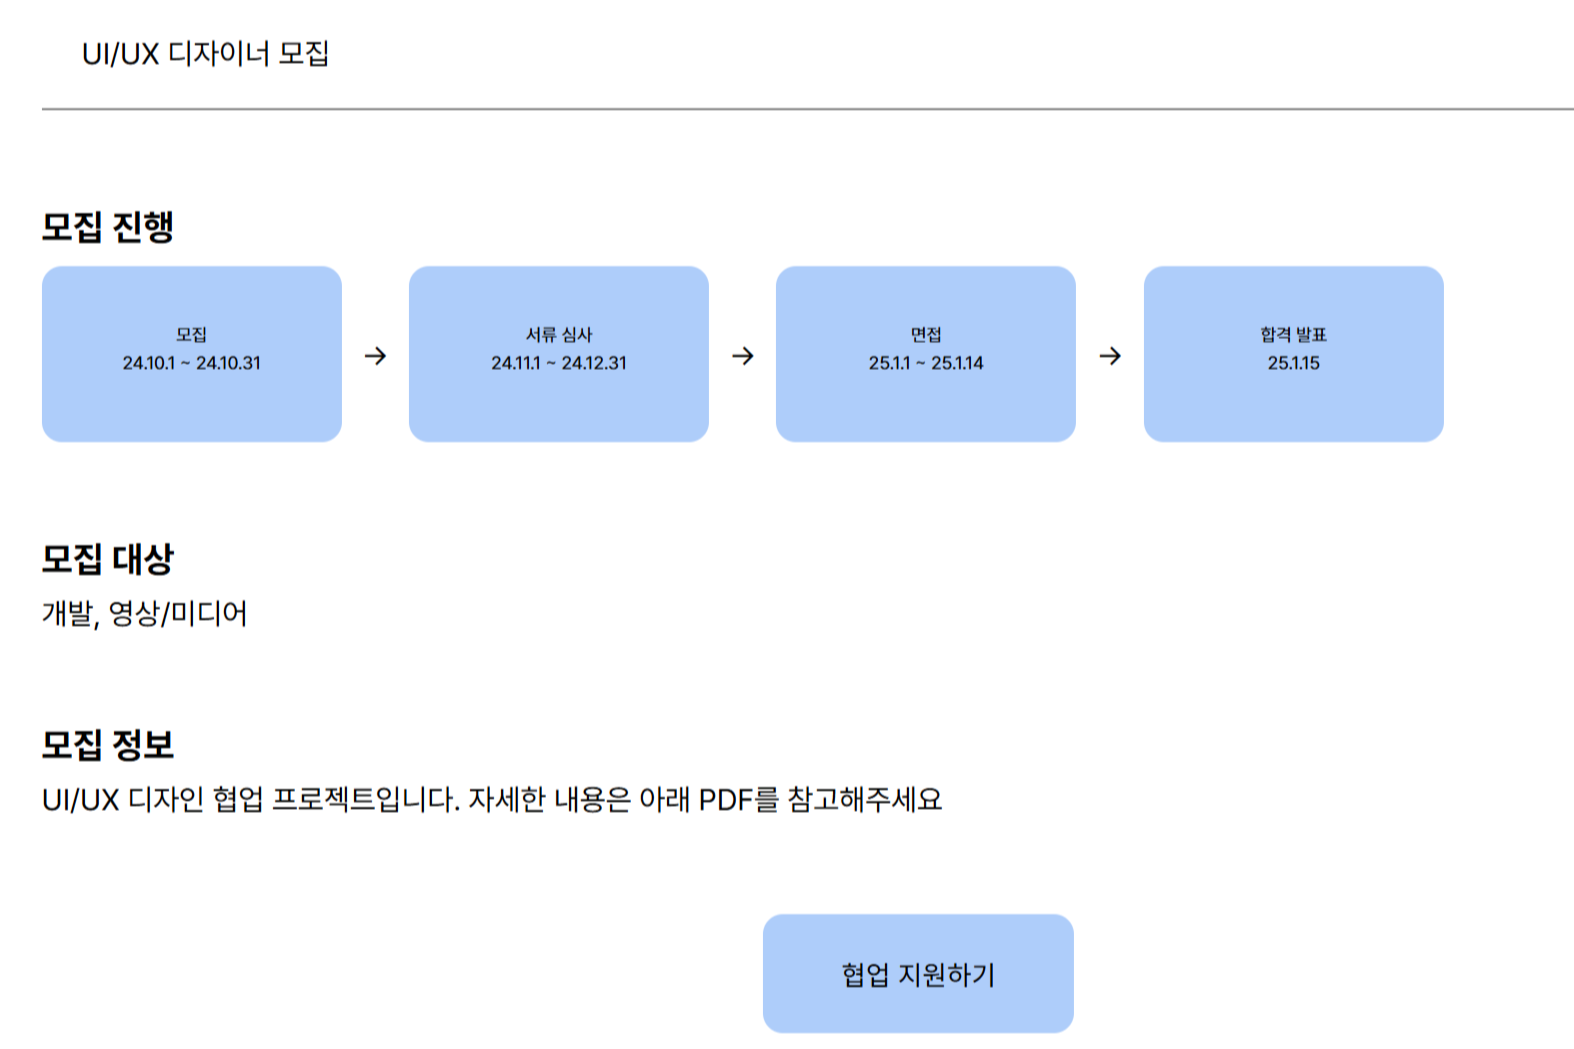
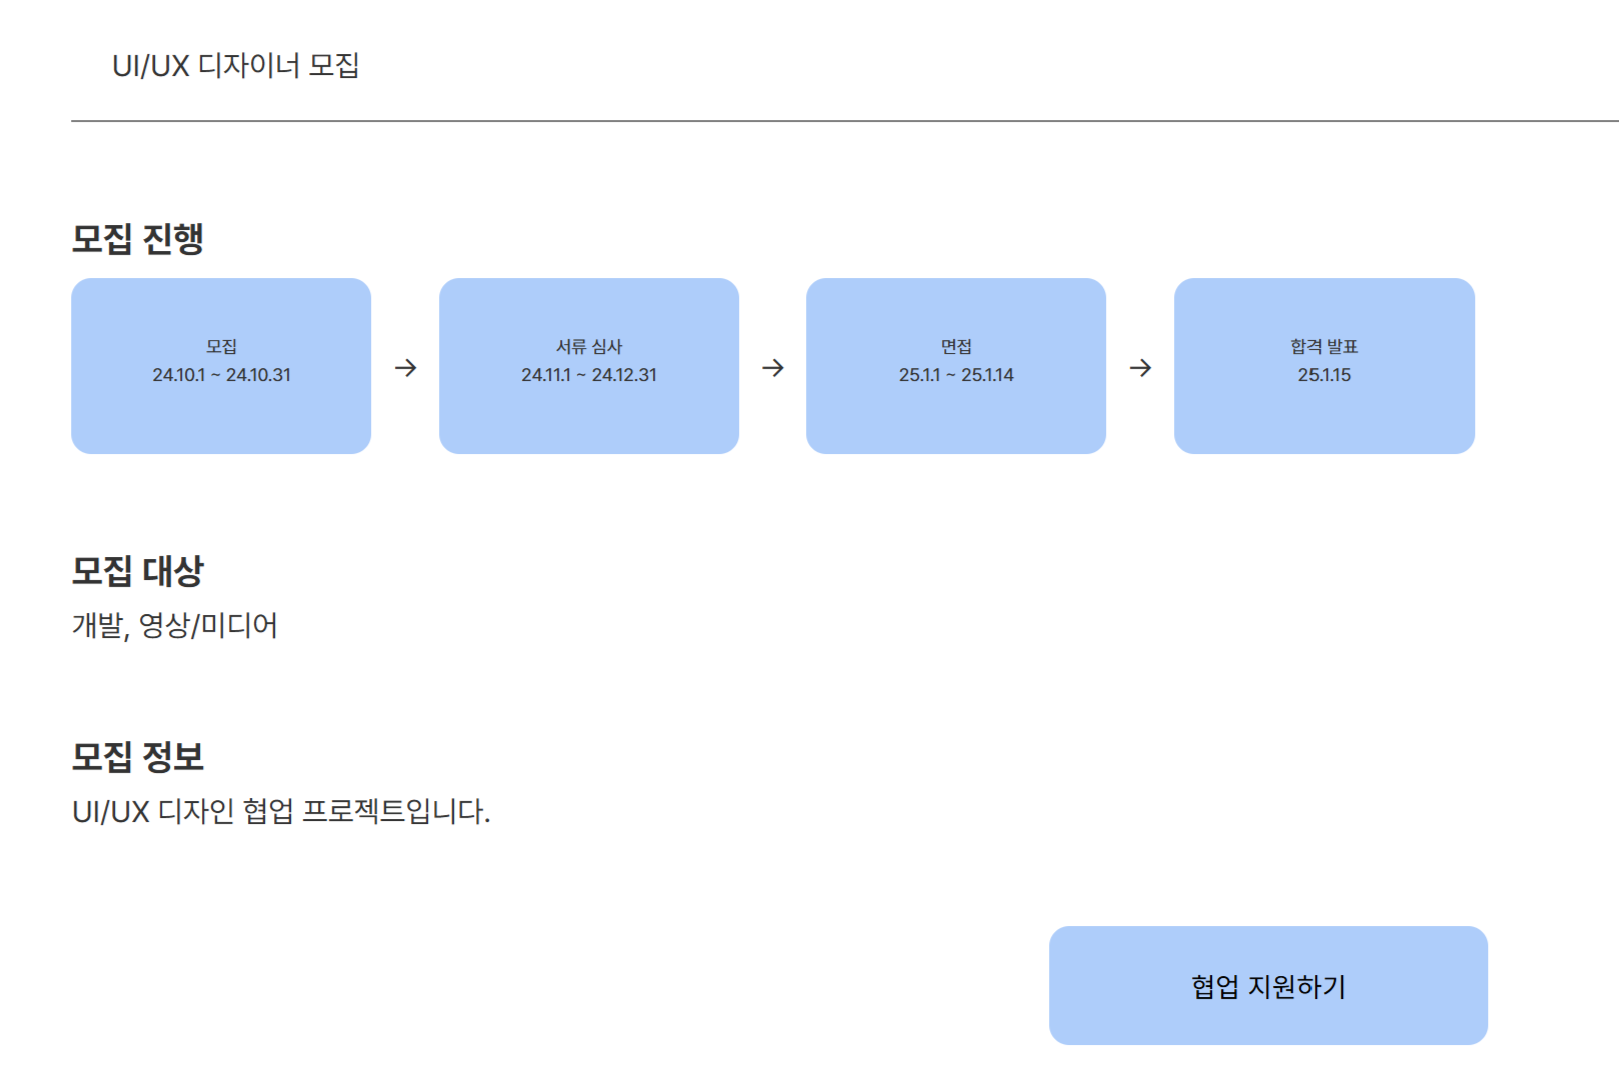
Feat: main 이미지 변경

diff --git a/src/pages/portfolio/Port/Port.jsx b/src/pages/portfolio/Port/Port.jsx
@@ -28,7 +28,43 @@ const data = [
     selecttype: 'Port',
     type: '팀 프로젝트',
     time: '2025.01.01 ~ 2025.03.01',
-    content: '자기소개서',
+    content: `
+  안녕하세요, 저는 현재 웹 개발 및 프로젝트 매니지먼트에 관심을 가지고 다양한 프로젝트를 진행 중인 개발자입니다. 이번에 풀스택 개발자와 협업하여 창의적이고 도전적인 프로젝트를 진행하고자 이렇게 글을 작성하게 되었습니다.<br/><br/>
+  
+  <strong>프로젝트 주제</strong><br/>
+  - <strong>목표:</strong> 사용자 친화적이고 실질적인 문제를 해결할 수 있는 웹 애플리케이션 개발<br/>
+  - <strong>분야:</strong> 소셜 플랫폼, 생산성 도구, 데이터 시각화 등<br/>
+  - <strong>기술 스택:</strong> React, Node.js, Express, MongoDB (협의 가능)<br/><br/>
+  
+  <strong>저에 대해</strong><br/>
+  - <strong>주요 역할:</strong> 프론트엔드 개발 (UI/UX 디자인 포함) 및 프로젝트 기획<br/>
+  - <strong>경험:</strong><br/>
+    &nbsp;&nbsp;- React 및 TypeScript 기반으로 개인 프로젝트 진행<br/>
+    &nbsp;&nbsp;- 협업 프로젝트에서 Git 및 Agile 방식 활용 경험<br/>
+    &nbsp;&nbsp;- 간단한 백엔드 API 연동 및 데이터베이스 설계 가능<br/><br/>
+  
+  <strong>원하는 협업 대상</strong><br/>
+  - <strong>풀스택 개발자</strong><br/>
+    &nbsp;&nbsp;- 프론트엔드와 백엔드 모두의 개발 경험이 있는 분<br/>
+    &nbsp;&nbsp;- 코드 리뷰 및 기술 스택 선정에 적극적으로 참여해 주실 분<br/>
+    &nbsp;&nbsp;- 팀워크를 중요시하고, 새로운 도전을 즐기는 분<br/><br/>
+  
+  <strong>진행 방식</strong><br/>
+  - <strong>협업 도구:</strong> GitHub, Slack/Discord, Notion<br/>
+  - <strong>작업 일정:</strong> 2024년 12월 ~ 2025년 2월 (협의 가능)<br/>
+  - <strong>미팅 방식:</strong> 주 1회 온라인 회의 및 일일 커뮤니케이션 (유연 조정 가능)<br/><br/>
+  
+  <strong>기대 효과</strong><br/>
+  - 서로의 강점을 살려, 현실적이고 사용자들에게 유용한 제품을 개발할 수 있는 기회<br/>
+  - 다양한 문제를 해결하며 새로운 기술과 트렌드를 학습<br/>
+  - 프로젝트를 완성하고, 포트폴리오로 활용 가능<br/><br/>
+  
+  <strong>연락처</strong><br/>
+  - <strong>이메일:</strong> example@email.com<br/>
+  - <strong>Slack ID:</strong> @example<br/><br/>
+  
+  저는 개발과 기획을 함께 할 수 있는 풀스택 개발자와 함께 열정적으로 이 프로젝트를 성공적으로 이끌어가고 싶습니다. 관심 있으신 분들은 부담 없이 연락 부탁드립니다. 감사합니다!
+`,
   },
   {
     id: 4,

diff --git a/src/pages/projectdesign/PD/PDdata.jsx b/src/pages/projectdesign/PD/PDdata.jsx
@@ -66,7 +66,7 @@ const data = [
     who: '개발, 영상/미디어',
     type: '스타트업',
     time: '2024.12.10 ~ 2025.01.10',
-    textcontent: 'UI/UX 디자인 협업 프로젝트입니다. 자세한 내용은 아래 PDF를 참고해주세요',
+    textcontent: 'UI/UX 디자인 협업 프로젝트입니다.',
     process: [
       { step: '모집', date: '24.10.1 ~ 24.10.31' },
       { step: '서류 심사', date: '24.11.1 ~ 24.12.31' },

diff --git a/src/pages/portfolio/portdetail/Portdetail.jsx b/src/pages/portfolio/portdetail/Portdetail.jsx
@@ -34,7 +34,7 @@ function Portdetail() {
         <div className="Pddetailtoptitle">
           <p>{item.title}</p>
         </div>
-        <div className="portpdf">{item.content}</div>
+        <div className="portfolio-content" dangerouslySetInnerHTML={{ __html: item.content }}></div>
         <div className="portbutton">
           <button onClick={() => handleportapply(item)}>프로젝트 제의하기</button>
         </div>

diff --git a/src/pages/portfolio/portdetail/Portdetail.css b/src/pages/portfolio/portdetail/Portdetail.css
@@ -10,10 +10,11 @@
     font-size: large;
     margin-bottom: 30px;
 }
-.portpdf {
-    display: flex;
-    justify-content: center;
-}
+.portfolio-content {
+    white-space: pre-line; /* 줄바꿈과 공백 유지 */
+    line-height: 1.5; /* 줄 간격 설정 */
+  }
+  
 .portbutton {
     width: 90%;
     margin: 50px;
